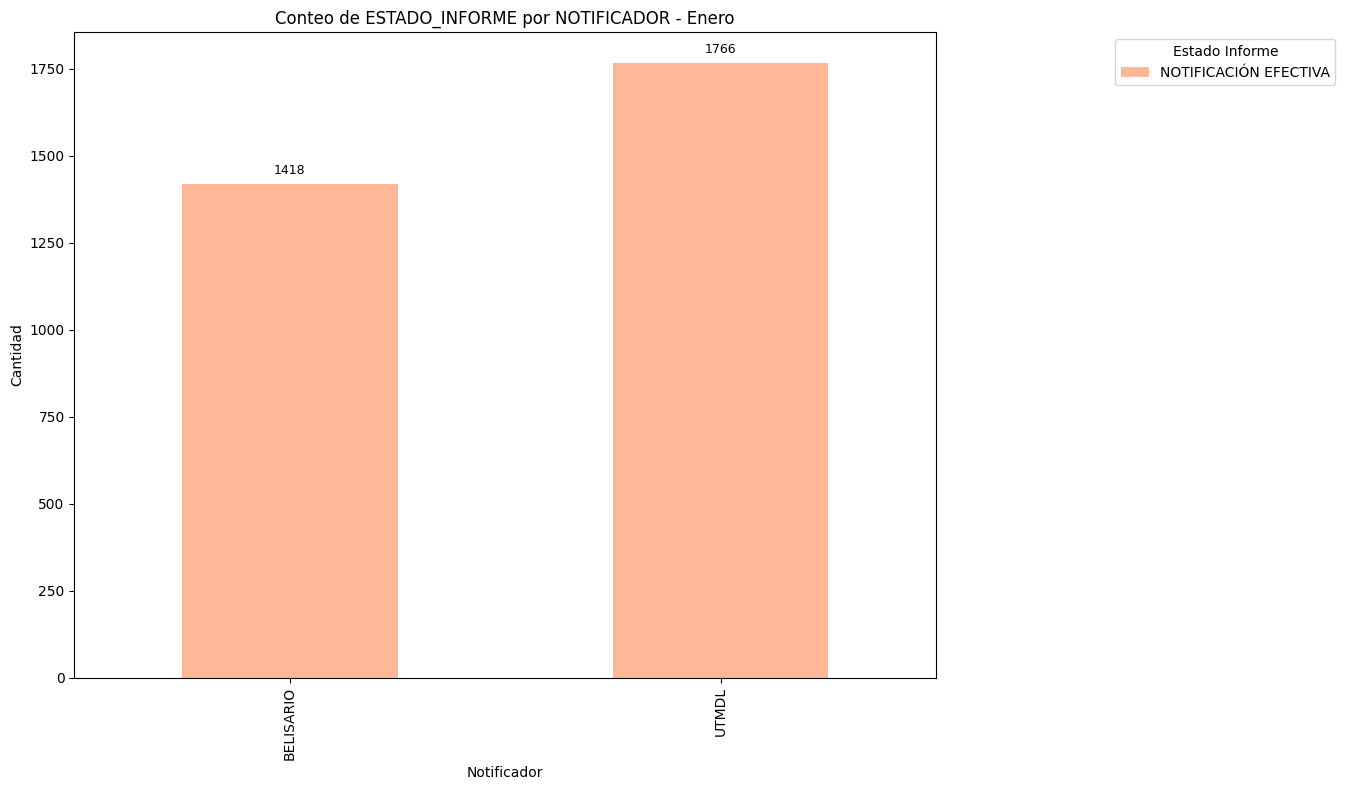
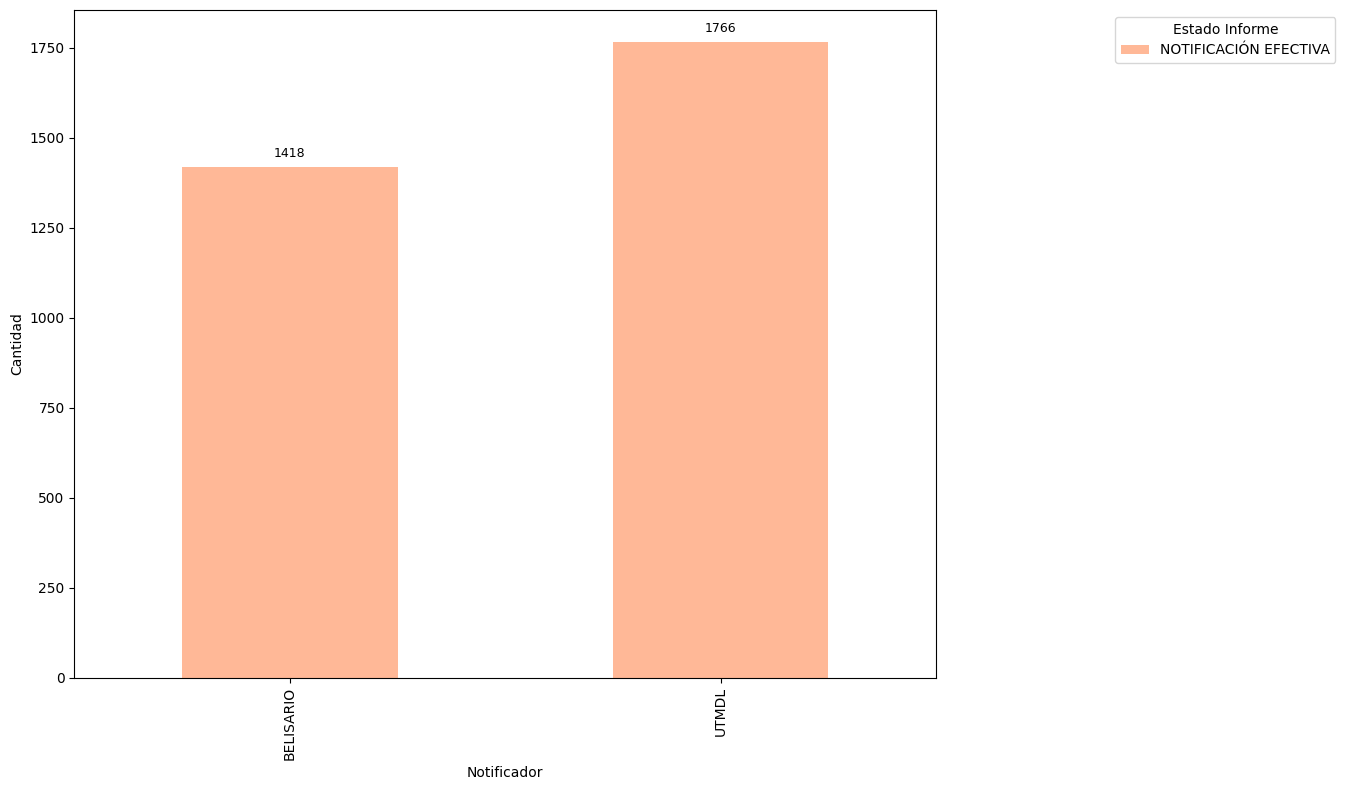
Todos los cambios solicitados el 7/11

diff --git a/views/proceso1.py b/views/proceso1.py
@@ -3,8 +3,8 @@ import pandas as pd
 from io import BytesIO
 from openpyxl import Workbook, load_workbook
 from openpyxl.utils.dataframe import dataframe_to_rows
-from openpyxl.styles import Border, Side, PatternFill
 import calendar
+from openpyxl.styles import PatternFill, Border, Side, Alignment, Font
 import matplotlib.pyplot as plt
 from openpyxl.drawing.image import Image
 import csv
@@ -55,8 +55,8 @@ def graficapastel_comparativa_ano(df, nombre_hoja):
     conteo = df_comparativa.groupby('NOTIFICADOR').size()
     
     fig, ax = plt.subplots(figsize=(8, 8))
-    ax.pie(conteo, labels=conteo.index, autopct='%1.1f%%', startangle=90, colors=colores)
-    ax.legend(title='Notificadores', loc='center left', bbox_to_anchor=(1.05, 0.5), fontsize=10)
+    ax.pie(conteo, labels=None, autopct='%1.1f%%', startangle=90, colors=colores)
+    ax.legend(labels=conteo.index, title='Notificadores', loc='center left', bbox_to_anchor=(1.05, 0.5), fontsize=10)
 
     # Guardar el gráfico en un archivo
     grafico_path = f"{nombre_hoja}_grafico_pastel_ano.png"
@@ -81,7 +81,6 @@ def graficas_barras_hojames(df, nombre_hoja, mes):
     conteo.plot(kind='bar', ax=ax, color=colores[:len(conteo.columns)])
     ax.set_xlabel('Notificador')
     ax.set_ylabel('Cantidad')
-    ax.set_title(f'Conteo de ESTADO_INFORME por NOTIFICADOR - {meses_en_espanol[mes].capitalize()}')
     ax.legend(title='Estado Informe', bbox_to_anchor=(1.2, 1), loc='upper left', fontsize=10)
 
     for p in ax.patches:
@@ -99,14 +98,11 @@ def graficas_barras_hojames(df, nombre_hoja, mes):
     return grafico_path
 
 def graficas_pastel_hoja_mes(df, nombre_hoja, mes):
-    # Asegurar columna MES
     if 'MES' not in df.columns:
         df['MES'] = df['FECHA_VISADO'].dt.month
 
-    # Filtrar por el mes
     df_mes = df[df['MES'] == mes]
 
-    # Agrupar por NOTIFICADOR y ESTADO_INFORME y contar
     conteo = (
         df_mes
         .groupby(['NOTIFICADOR', 'ESTADO_INFORME'])
@@ -114,23 +110,30 @@ def graficas_pastel_hoja_mes(df, nombre_hoja, mes):
         .reset_index(name='CUENTA')
     )
 
-    # Crear etiquetas combinadas tipo "BELISARIO – ENTREGADO"
     conteo['ETIQUETA'] = conteo['NOTIFICADOR'] + " – " + conteo['ESTADO_INFORME']
 
     fig, ax = plt.subplots(figsize=(10, 8))
     cmap = plt.cm.get_cmap('tab20', len(conteo))
-    ax.pie(
+
+    wedges, texts, autotexts = ax.pie(
         conteo['CUENTA'],
-        labels=conteo['ETIQUETA'],
+        labels=None,  # 👈 Sin etiquetas en el gráfico
         autopct='%1.1f%%',
         startangle=140,
         colors=[cmap(i) for i in range(len(conteo))]
     )
-    ax.set_title(
-        f'Distribución NOTIFICADOR vs ESTADO_INFORME – {meses_en_espanol[mes].capitalize()}',
-        fontsize=14
-    )
+
     ax.axis('equal')
+
+    # 💡 Agregar leyenda al lado derecho
+    ax.legend(
+        wedges,
+        conteo['ETIQUETA'],
+        title="Notificador – Estado",
+        loc='center left',
+        bbox_to_anchor=(1, 0.5),
+        fontsize=9
+    )
 
     path = f"{nombre_hoja}_pastel_notificador_estado_{mes}.png"
     plt.tight_layout()
@@ -170,38 +173,35 @@ def crear_hoja_mes_seleccionado(libro, nombre_hoja, df, mes):
 
 
 # ------------------------------------------------------------------------------- HOJA: TABLA MES -------------------------------------------------------------
-import matplotlib.pyplot as plt
+def _mes_a_nombre(m):
+    if isinstance(m, str):
+        return m.capitalize()
+    return meses_en_espanol[int(m)].capitalize()
 
 def graficas_barras_tabla_mes(df, nombre_hoja):
-    # Asegurarse de que exista la columna MES
     if 'MES' not in df.columns:
         df['MES'] = df['FECHA_VISADO'].dt.month
+    df['MES_NOMBRE'] = df['MES'].apply(_mes_a_nombre)
 
-    # Agrupar por MES y contar casos
-    conteo = df.groupby('MES').size().reset_index(name='TOTAL_CASOS')
-    conteo['MES'] = conteo['MES'].map(lambda m: meses_en_espanol[m].capitalize())
+    # Agrupar por MES_NOMBRE y NOTIFICADOR → contar casos
+    conteo = df.groupby(['MES_NOMBRE', 'NOTIFICADOR']).size().reset_index(name='TOTAL')
 
-    print("Conteo total por mes:\n", conteo)
+    # Pivot para poner NOTIFICADOR como columnas y MES_NOMBRE como índice
+    tabla = conteo.pivot(index='MES_NOMBRE', columns='NOTIFICADOR', values='TOTAL').fillna(0)
 
-    # Crear gráfica
-    fig, ax = plt.subplots(figsize=(10, 6))
-    colores = plt.cm.get_cmap('Set2', len(conteo))(range(len(conteo)))
+    # Ordenar los meses Enero → Diciembre
+    orden_meses = [_mes_a_nombre(i) for i in range(1, 13)]
+    tabla = tabla.reindex(orden_meses, fill_value=0)
 
-    barras = ax.bar(conteo['MES'], conteo['TOTAL_CASOS'], color=colores)
+    # Plot: Barras agrupadas (NO apiladas)
+    fig, ax = plt.subplots(figsize=(12, 6))
+    tabla.plot(kind='bar', ax=ax, color=colores)  
 
-    # Etiquetas en cada barra
-    for bar in barras:
-        altura = bar.get_height()
-        ax.annotate(f'{int(altura)}',
-                    (bar.get_x() + bar.get_width()/2, altura),
-                    xytext=(0, 5),
-                    textcoords="offset points",
-                    ha='center', va='bottom', fontsize=10)
 
-    ax.set_title("Total de casos por mes", fontsize=14)
     ax.set_xlabel("Mes")
     ax.set_ylabel("Cantidad")
-    ax.set_xticklabels(conteo['MES'], rotation=45, ha='right')
+    plt.xticks(rotation=45, ha='right')
+    ax.legend(title='Notificador', bbox_to_anchor=(1.05, 1), loc='upper left')
 
     path = f"{nombre_hoja}_grafico_barras_mensual.png"
     plt.tight_layout()
@@ -210,33 +210,29 @@ def graficas_barras_tabla_mes(df, nombre_hoja):
 
     return path
 
-
 def graficas_pastel_tabla_mes(df, nombre_hoja):
-    conteo = df.groupby('MES').size()
-    conteo.index = conteo.index.map(lambda m: meses_en_espanol[m].capitalize())  
+    if 'MES' not in df.columns:
+        df['MES'] = df['FECHA_VISADO'].dt.month
+
+    # Convertir al vuelo sin tocar df
+    conteo = (
+        df.groupby('MES').size()
+          .rename(index=_mes_a_nombre)
+    )
 
     fig, ax = plt.subplots(figsize=(8, 8))
     cmap = plt.cm.get_cmap('Pastel1', len(conteo))
-    colores = [cmap(i) for i in range(len(conteo))]
+    ax.pie(conteo, labels=None, autopct='%1.1f%%',
+           startangle=90, colors=[cmap(i) for i in range(len(conteo))])
+    ax.legend(labels=conteo.index, title='Meses', loc='center left',
+              bbox_to_anchor=(1.05, 0.5), fontsize=10)
 
-    ax.pie(
-        conteo,
-        labels=conteo.index,
-        autopct='%1.1f%%',
-        startangle=90,
-        colors=colores
-    )
-    ax.legend(title='Meses', loc='center left', bbox_to_anchor=(1.05, 0.5), fontsize=10)
-
-    grafico_path = f"{nombre_hoja}_grafico_pastel.png"
-    plt.tight_layout()
-    plt.savefig(grafico_path, transparent=True, bbox_inches="tight")
-    plt.close(fig)
-
-    return grafico_path
+    path = f"{nombre_hoja}_grafico_pastel.png"
+    plt.tight_layout(); plt.savefig(path, transparent=True,
+                                    bbox_inches="tight"); plt.close(fig)
+    return path
 
 # ------------------------------------------------------------------------------- HOJAS -------------------------------------------------------------
-
 # Hoja "COMPARATIVA AÑO"
 def crear_comparativa_ano_dto(libro, df_dto):
     # Crear la hoja "COMPARATIVA AÑO DTO"
@@ -277,43 +273,67 @@ def crear_comparativa_ano_pcl(libro, df_pcl):
 
 # ------------------------------------------------------------------------------- GENERAR TABLAS PARA DTO Y PCL: TABLA MES -------------------------------------------------------------
 def generar_tablas_dto_y_pcl(libro, df_dto, df_pcl):
-    def crear_hoja(nombre_hoja, df, mes):
+    def crear_hoja(nombre_hoja, df):
         df['MES'] = df['FECHA_VISADO'].dt.month
-        df_mes = df[df['MES'] == mes]
 
-        conteo = df_mes.groupby('MES').size().reset_index(name='TOTAL')
-        conteo['MES'] = conteo['MES'].apply(lambda m: meses_en_espanol[m].capitalize())
+        conteo = df.groupby('MES').size().reset_index(name='TOTAL')
+        conteo['MES'] = conteo['MES'].map(lambda m: meses_en_espanol[m].capitalize())
+
         total_general = conteo['TOTAL'].sum()
-        conteo['PORCENTAJE'] = (conteo['TOTAL'] / total_general * 100).round(2).astype(str) + '%'
+        conteo['PORCENTAJE'] = (
+            (conteo['TOTAL'] / total_general * 100)
+            .round(2).astype(str) + '%'
+        )
 
         fila_total = pd.DataFrame({
             'MES': ['Total general'],
             'TOTAL': [total_general],
             'PORCENTAJE': ['100.0%']
         })
+
         tabla_final = pd.concat([conteo, fila_total], ignore_index=True)
 
-        hoja_nombre_mes = f"{nombre_hoja} {meses_en_espanol[mes].capitalize()}"
-        if hoja_nombre_mes in libro.sheetnames:
-            del libro[hoja_nombre_mes]
-        hoja = libro.create_sheet(hoja_nombre_mes)
+        # Crear hoja
+        if nombre_hoja in libro.sheetnames:
+            del libro[nombre_hoja]
+        hoja = libro.create_sheet(nombre_hoja)
 
-        # (El resto igual, solo cambia `df` por `df_mes` donde aplique)
+        # Definir estilos
+        borde_oscuro = Border(
+            left=Side(style='thin', color='000000'),
+            right=Side(style='thin', color='000000'),
+            top=Side(style='thin', color='000000'),
+            bottom=Side(style='thin', color='000000')
+        )
+
+        relleno_encabezado = PatternFill(start_color='D9D9D9', end_color='D9D9D9', fill_type='solid')
+        alineacion_centrada = Alignment(horizontal='center', vertical='center')
+        fuente_negrita = Font(bold=True)
+
+        # Escribir encabezados con estilo
+        for c_idx, col_name in enumerate(tabla_final.columns, 1):
+            celda = hoja.cell(row=1, column=c_idx, value=col_name)
+            celda.fill = relleno_encabezado
+            celda.border = borde_oscuro
+            celda.alignment = alineacion_centrada
+            celda.font = fuente_negrita
+
+        # Escribir datos con bordes
+        for r_idx, row in tabla_final.iterrows():
+            for c_idx, value in enumerate(row, 1):
+                celda = hoja.cell(row=r_idx+2, column=c_idx, value=value)
+                celda.border = borde_oscuro
+                celda.alignment = alineacion_centrada
 
         # Gráficos
-        grafico_barras_path = graficas_barras_tabla_mes(df, hoja_nombre_mes)
-        img_barras = Image(grafico_barras_path)
-        hoja.add_image(img_barras, 'E5')
+        grafico_barras_path = graficas_barras_tabla_mes(df, nombre_hoja)
+        hoja.add_image(Image(grafico_barras_path), 'E5')
 
-        grafico_pastel_path = graficas_pastel_tabla_mes(df_mes, hoja_nombre_mes)
-        img_pastel = Image(grafico_pastel_path)
-        hoja.add_image(img_pastel, 'E20')
+        grafico_pastel_path = graficas_pastel_tabla_mes(df, nombre_hoja)
+        hoja.add_image(Image(grafico_pastel_path), 'E20')
 
-    # Ejecutar por cada mes presente
-    for mes in sorted(df_dto['FECHA_VISADO'].dt.month.unique()):
-        crear_hoja("TABLA MES DTO", df_dto, mes)
-    for mes in sorted(df_pcl['FECHA_VISADO'].dt.month.unique()):
-        crear_hoja("TABLA MES PCL", df_pcl, mes)
+    crear_hoja("DTO TABLA MES", df_dto)
+    crear_hoja("PCL TABLA MES", df_pcl)
 
 
 # ------------------------------------------------------------------------------- FUNCIONES DE SUBIDA Y DESCARGA -------------------------------------------------------------
